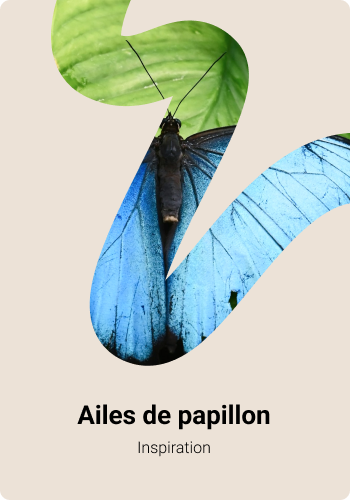
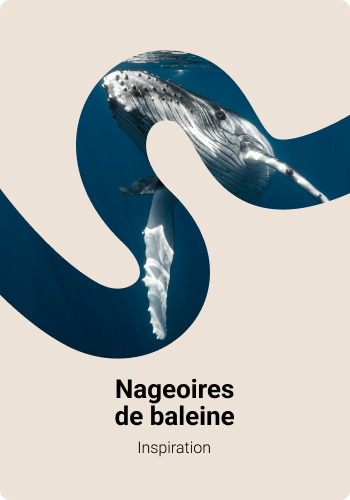
Feat : add hoover et installation framer motion

diff --git a/src/App.jsx b/src/App.jsx
@@ -15,7 +15,9 @@ function App() {
           key={`left-${i}`}
           className={`grid-square ${isDark ? 'dark' : ''} ${isSelected ? 'selected' : ''}`}
           onClick={() => setSelectedLeft(i)}
-        />
+        >
+          <img src="/assets/cards/inspiration/card-inspiration-01.png" alt="Inspiration" className="grid-img" />
+        </div>
       );
     });
   };
@@ -30,7 +32,9 @@ function App() {
           key={`right-${i}`}
           className={`grid-square ${isDark ? 'dark' : ''} ${isSelected ? 'selected' : ''}`}
           onClick={() => setSelectedRight(i)}
-        />
+        >
+          <img src="/assets/cards/innovation/card-innovation-01.png" alt="Innovation" className="grid-img" />
+        </div>
       );
     });
   };
@@ -57,8 +61,8 @@ function App() {
         {/* Carte et Description de gauche */}
         <div className="card-wrapper">
           <div className="card placeholder-card-left">
-            {/* Espace réservé pour l'image de la baleine */}
-            <div className="img-placeholder whale"></div>
+            {/* Image de la baleine */}
+            <img src="/assets/cards/inspiration/card-inspiration-01.png" alt="Nageoires de baleine" className="card-img" />
             <div className="card-text">
               <h2>Nageoires<br/>de baleine</h2>
               <p>Inspiration</p>
@@ -79,8 +83,8 @@ function App() {
         {/* Carte et Description de droite */}
         <div className="card-wrapper">
           <div className="card placeholder-card-right">
-            {/* Espace réservé pour l'image de l'éolienne */}
-            <div className="img-placeholder turbine"></div>
+            {/* Image de l'éolienne */}
+            <img src="/assets/cards/innovation/card-innovation-01.png" alt="Éoliennes" className="card-img" />
             <div className="card-text">
               <h2>Éoliennes</h2>
               <p>Innovation</p>

diff --git a/src/App.css b/src/App.css
@@ -54,14 +54,34 @@
   background-color: #d1d6ce; /* Gris clair */
   border-radius: 6px;
   cursor: pointer;
-  transition: all 0.2s ease;
+  transition: transform 0.25s ease, box-shadow 0.25s ease, border-color 0.2s ease;
   box-sizing: border-box;
-  /* Un bord invisible par défaut pour ne pas décaler au survol */
-  border: 3px solid transparent; 
+  border: 3px solid transparent;
+  overflow: hidden;
+  position: relative;
+}
+
+.grid-square:hover {
+  transform: translateY(-3px) scale(1.03);
+  box-shadow: 0 8px 20px rgba(0, 0, 0, 0.12);
+}
+
+.grid-img {
+  width: 100%;
+  height: 100%;
+  object-fit: cover;
+  display: block;
+  transition: transform 0.35s ease, filter 0.25s ease;
+  transform-origin: center center;
+}
+
+.grid-square:hover .grid-img {
+  transform: scale(1.08);
+  filter: brightness(1.05);
 }
 
 .grid-square.dark {
-  background-color: #989d98; /* Gris foncé pour les deux du haut */
+  background-color: #989d98;
 }
 
 /* Effet Hover / Selected (Contour vert) */
@@ -98,8 +118,14 @@
   background-color: #6398c8; /* Bleu pour la carte de droite */
 }
 
-.img-placeholder {
-  flex: 1;
+.card-img {
+  width: 100%;
+  height: 100%;
+  object-fit: cover;
+  position: absolute;
+  top: 0;
+  left: 0;
+  z-index: 0;
 }
 
 .card-text {
@@ -109,6 +135,7 @@
   bottom: 0;
   left: 0;
   right: 0;
+  z-index: 1;
   /* Le gradient est ajouté en dessous pour fondre le texte avec l'image */
 }
 
